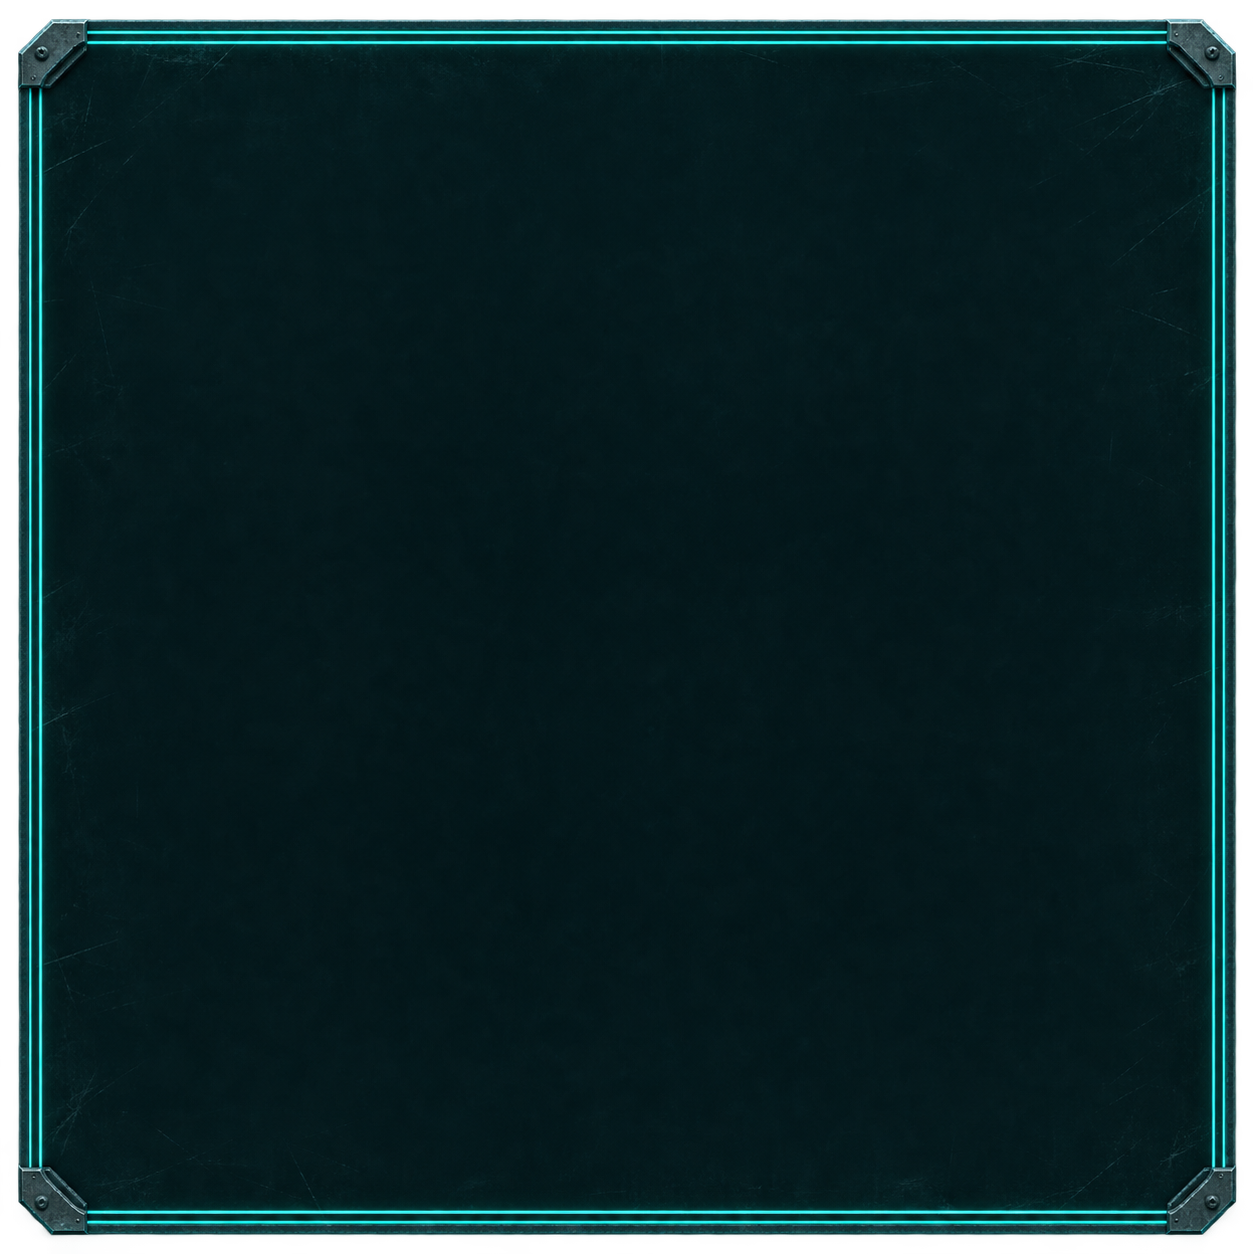
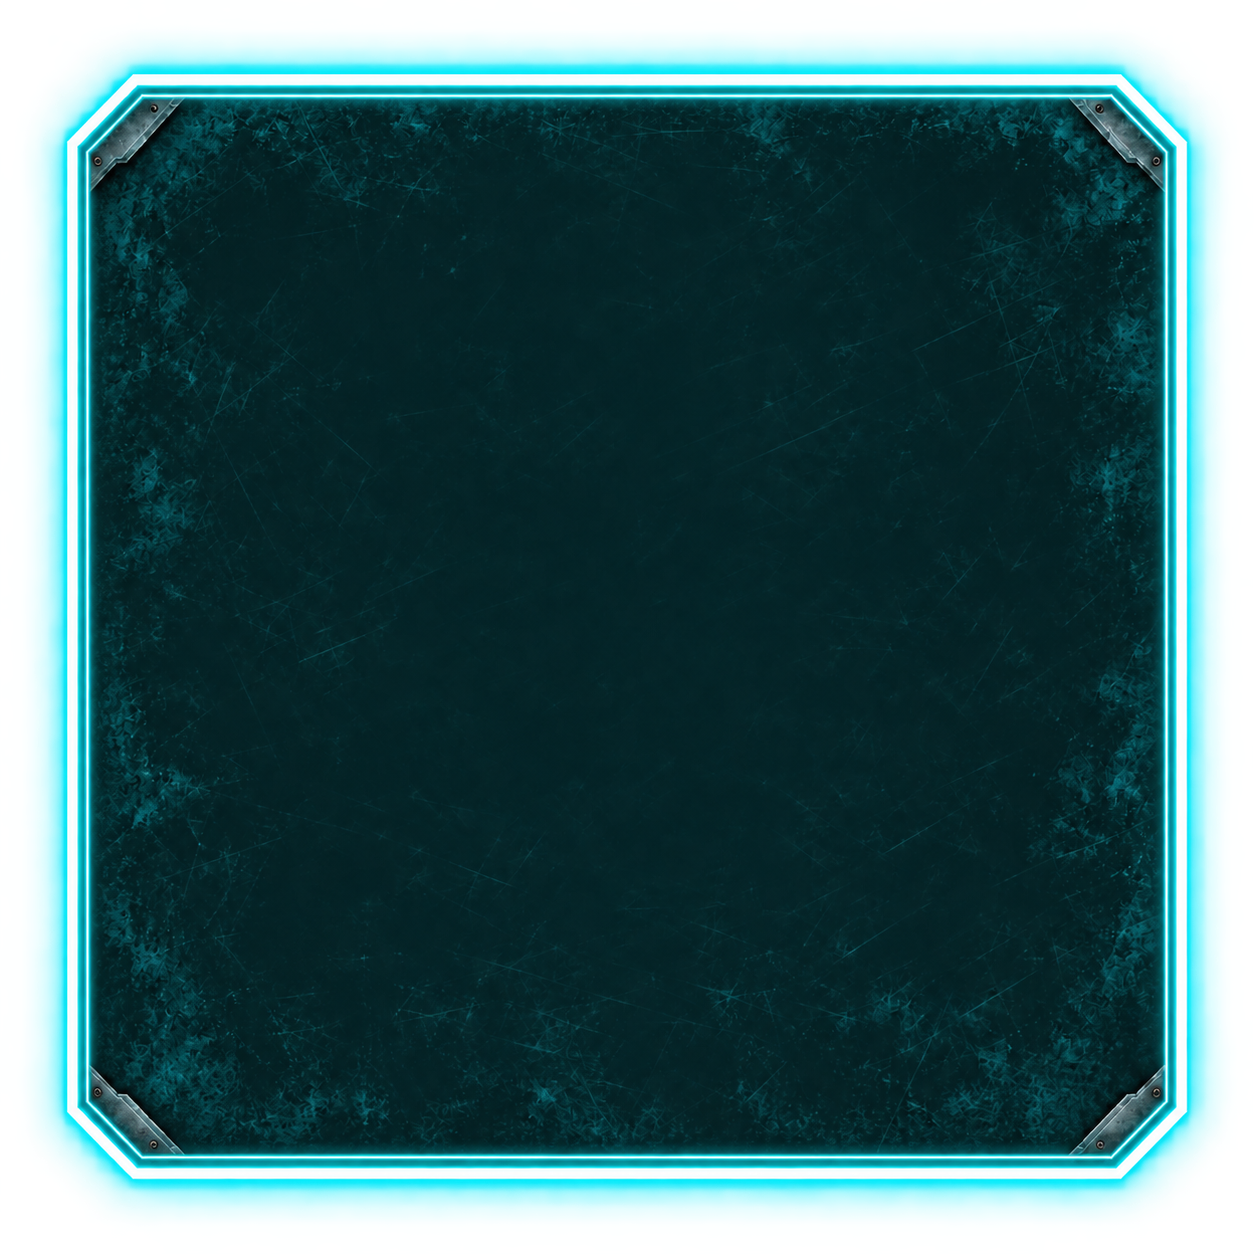
fix: 기존 건설창 프레임을 정사각형으로 적용

diff --git a/sub-terra/Assets/_Project/Editor/DataValidation/PromptB188BuildingModeBuilder.cs b/sub-terra/Assets/_Project/Editor/DataValidation/PromptB188BuildingModeBuilder.cs
@@ -36,8 +36,8 @@ namespace SubTerra.App.Editor.DataValidation
         // B-191: 검색·정렬과 상세 정보를 담는 큰 창 폭.
         public const float CatalogWidth = 560f;
         public const float CatalogMargin = 28f;
-        // 목록 높이가 칸 6개(+간격)에 딱 맞아 아래에 반쯤 잘린 칸이 걸치지 않는다(9칸 기준 550 - 96 - 34 = 420).
-        public const float CatalogBottomMargin = 34f;
+        // 정사각 큰 창에서도 목록 영역은 여섯 행이 온전히 들어가는 높이로 둔다(560 - 96 - 44 = 420).
+        public const float CatalogBottomMargin = 44f;
         public const float CatalogInnerWidth = CatalogWidth - CatalogMargin * 2f;
         // 프레임 바깥 글로우가 레일을 덮지 않게 조금 띄운다.
         public const float CatalogX = SideX + 14f;
@@ -856,7 +856,7 @@ namespace SubTerra.App.Editor.DataValidation
             Sprite buttonOn)
         {
             var refs = new CatalogRefs();
-            var height = RailHeight(entries.Count);
+            var height = CatalogWidth;
             // 창 판은 클릭 막이로 두고 카드와 같은 프레임 그림을 뒤에 둔다.
             var window = EnsureImage(panel, "CatalogWindow", Clear);
             window.sprite = null;
@@ -1101,7 +1101,7 @@ namespace SubTerra.App.Editor.DataValidation
         {
             var importer = AssetImporter.GetAtPath(CardFramePath) as TextureImporter;
             if (importer == null) throw new InvalidOperationException("건설 카드 프레임이 없습니다: " + CardFramePath);
-            var border = new Vector4(96f, 96f, 96f, 96f);
+            var border = new Vector4(192f, 192f, 192f, 192f);
             if (importer.textureType != TextureImporterType.Sprite || importer.spriteImportMode != SpriteImportMode.Single
                 || importer.spriteBorder != border || importer.textureCompression != TextureImporterCompression.Uncompressed)
             {
@@ -1118,7 +1118,17 @@ namespace SubTerra.App.Editor.DataValidation
             Stretch(frame.rectTransform, 0f);
             frame.sprite = AssetDatabase.LoadAssetAtPath<Sprite>(CardFramePath);
             frame.type = UnityEngine.UI.Image.Type.Sliced;
-            frame.pixelsPerUnitMultiplier = frame.sprite.rect.width / width;
+            // 원본 계열 네온 프레임의 밝은 선을 창 경계에 맞추고 바깥 글로우 여백을 확보한다.
+            const float bodyLeft = 74f;
+            const float bodyRight = 1180f;
+            const float bodyTop = 80f;
+            const float bodyBottom = 1174f;
+            var pixelsPerUnit = (bodyRight - bodyLeft) / width;
+            frame.pixelsPerUnitMultiplier = pixelsPerUnit;
+            frame.rectTransform.offsetMin = new Vector2(-bodyLeft,
+                -(frame.sprite.rect.height - bodyBottom)) / pixelsPerUnit;
+            frame.rectTransform.offsetMax = new Vector2(frame.sprite.rect.width - bodyRight,
+                bodyTop) / pixelsPerUnit;
             frame.raycastTarget = false;
             frame.transform.SetSiblingIndex(0);
         }

diff --git a/sub-terra/Assets/_Project/Tests/EditMode/App/UI/PromptB191BuildingModeTests.cs b/sub-terra/Assets/_Project/Tests/EditMode/App/UI/PromptB191BuildingModeTests.cs
@@ -238,12 +238,15 @@ namespace SubTerra.App.Tests.UI
             Assert.That(frame.sprite, Is.SameAs(frameSprite));
             Assert.That(frame.type, Is.EqualTo(Image.Type.Sliced));
             Assert.That(frame.raycastTarget, Is.False);
-            Assert.That(frame.rectTransform.offsetMin.magnitude, Is.LessThan(0.001f));
-            Assert.That(frame.rectTransform.offsetMax.magnitude, Is.LessThan(0.001f));
+            Assert.That(frame.rectTransform.offsetMin.x, Is.LessThan(0f));
+            Assert.That(frame.rectTransform.offsetMin.y, Is.LessThan(0f));
+            Assert.That(frame.rectTransform.offsetMax.x, Is.GreaterThan(0f));
+            Assert.That(frame.rectTransform.offsetMax.y, Is.GreaterThan(0f));
             Assert.That(frame.transform.GetSiblingIndex(), Is.Zero, "목록·상세보다 뒤에 그린다.");
             Assert.That(window.GetComponent<Image>().raycastTarget, Is.True, "창 안 클릭은 월드로 새지 않는다.");
             Assert.That(((RectTransform)window).sizeDelta.x, Is.EqualTo(PromptB112InventoryPanelBuilder.PanelWidth),
                 "검색·정렬과 상세 정보의 기존 창 폭을 유지한다.");
+            Assert.That(((RectTransform)window).sizeDelta.y, Is.EqualTo(((RectTransform)window).sizeDelta.x));
             Assert.That(((RectTransform)window).anchorMin, Is.EqualTo(new Vector2(0f, 1f)), "가운데 팝업이 아니라 레일 옆 왼쪽 위에 붙는다.");
         }
 

diff --git a/sub-terra/Assets/_Project/Tests/EditMode/App/UI/PromptB191FollowupTests.cs b/sub-terra/Assets/_Project/Tests/EditMode/App/UI/PromptB191FollowupTests.cs
@@ -129,8 +129,10 @@ namespace SubTerra.App.Tests.UI
             Assert.That(card.GetComponent<UnityEngine.UI.VerticalLayoutGroup>().padding.left, Is.EqualTo(16));
             Assert.That(Find("SidePane").GetComponent<RectTransform>().sizeDelta.x, Is.EqualTo(300f));
             Assert.That(card.GetComponent<UnityEngine.UI.LayoutElement>().preferredHeight, Is.EqualTo(300f));
-            Assert.That(frame.rectTransform.offsetMin, Is.EqualTo(Vector2.zero));
-            Assert.That(frame.rectTransform.offsetMax, Is.EqualTo(Vector2.zero));
+            Assert.That(frame.rectTransform.offsetMin.x, Is.LessThan(0f));
+            Assert.That(frame.rectTransform.offsetMin.y, Is.LessThan(0f));
+            Assert.That(frame.rectTransform.offsetMax.x, Is.GreaterThan(0f));
+            Assert.That(frame.rectTransform.offsetMax.y, Is.GreaterThan(0f));
             Assert.That(card.GetComponent<UnityEngine.UI.Image>().raycastTarget, Is.True);
         }
 

diff --git a/work_process/MVP2/ui/B-191-3-original-square-frame-result.md b/work_process/MVP2/ui/B-191-3-original-square-frame-result.md
@@ -1,0 +1,42 @@
+# B-191-3 원본 건설창 프레임의 정사각형 편집
+
+2026-11-10.
+
+기존 건설창이 사용하던 `Assets/_Project/Art/UI/Inventory/inventory-window-frame.png`를 imagegen 편집 입력으로 전달해 정사각형으로 다시 만들었다. 원본의 두꺼운 청록·흰색 이중 발광 테두리, 금속 모서리와 짙은 청록색 긁힘 질감을 살렸다. 위쪽 탭과 측면 굴곡을 정리했다.
+
+최종 이미지는 `sub-terra/Assets/_Project/Art/UI/Gameplay/building-card-square.png`에 적용했다. 기존 meta GUID를 유지했다. 큰 목록·상세창은 560×560, 작은 카드는 300×300으로 배치한다. 목록 높이는 420으로 두어 여섯 행이 온전히 보인다. 네온 선이 창 경계에 맞고 글로우가 바깥으로 번지도록 프레임 여백과 9-slice를 조정했다.
+
+## 변경 파일
+
+- `sub-terra/Assets/_Project/Art/UI/Gameplay/building-card-square.png`와 `.meta`
+- `sub-terra/Assets/_Project/Editor/DataValidation/PromptB188BuildingModeBuilder.cs`
+- `sub-terra/Assets/_Project/Prefabs/UI/BuildingMenu.prefab`
+- `sub-terra/Assets/_Project/Tests/EditMode/App/UI/PromptB191BuildingModeTests.cs`
+- `sub-terra/Assets/_Project/Tests/EditMode/App/UI/PromptB191FollowupTests.cs`
+- `init/rules/lessons/2026-11-10-issue304-reference-frame-redraw.md`
+- 이 보고서
+
+## 이미지 생성
+
+내장 `image_gen` 도구를 두 번 사용했다. 첫 편집으로 원본의 외형을 정사각형으로 만들고, 두 번째 편집으로 테두리 배치와 발광 여백을 좁혀 작은 카드의 가독성을 확보했다. 최종 PNG는 1254×1254이며 외곽에 알파 채널이 있다.
+
+## 검증
+
+- 관련 EditMode 57/57 통과. `sub-terra/Builds/BuildingUi/original-style-edit-final/EditMode-summary.txt`.
+- Visual PlayMode 1/1 통과. Bootstrap 기반 격리된 탐사 Scene에서 1920×1080, 1366×768, 2560×1440의 카드·목록·상세·검색·정렬·클릭 영역을 확인했다. `sub-terra/Builds/BuildingUi/original-style-visual/PlayMode-summary.txt`.
+- 카드·목록·상세를 절반 해상도로 묶은 화면을 검토했다. 네온 프레임 안에 이름·설명·비용·상태가 표시되고 큰 목록은 여섯 행이 온전히 보인다. `sub-terra/Builds/BuildingUi/original-style-preview.jpg`.
+- Unity Console 오류 0개. 입력 코드와 Inspector 연결은 기존 경로를 사용하며 프리팹은 Editor 빌더로 저장했다.
+- 미검증 항목은 Windows 플레이어 빌드 실행이다. 수동 확인 시 B → 시설 선택 → 카드, `>>` → 목록 → 행 선택 → 상세에서 프레임과 텍스트를 확인한다.
+
+첫 편집 프롬프트
+
+```text
+Use case: precise-object-edit. Edit target: the provided existing game window frame image. Adapt THIS EXACT frame into a true square version for the construction window and small construction card of the same game. Preserve its distinctive bright thick cyan/white double-line neon outline, strong cyan outer glow, weathered dark teal metal interior, scratched peripheral texture and metallic beveled corner brackets. Preserve the visual identity and brightness of the supplied frame. Geometry change only: make the main panel exactly square with four equal-length straight sides and small identical 45-degree clipped corners. Remove the raised top-center tab and remove both side indentations, continuing the same cyan double-outline straight across them. Uniform square silhouette, centered, equal transparent outer glow margins on all four edges. The central panel is opaque nearly black teal and calm enough for live readable UI text, with subtle wear concentrated near the edges. No text, labels, symbols, buttons, extra objects, logos, or watermark. Straight-on flat 2D game UI sprite. Deliver a square 1024x1024 RGBA texture with actual transparency outside the cyan glow, opaque dark center. Keep the frame inside the outer 8 percent band so a 96-pixel 9-slice border can preserve all corners. This is a faithful square adaptation of the reference, retaining the bold luminous border.
+```
+
+테두리 보정 프롬프트
+
+```text
+Edit this square frame image with one geometric refinement while preserving its exact original bright white/cyan double-line neon style, dark scratched teal center, corner brackets and square shape. Move the luminous frame outline outward so the main WHITE outline lies only 4 percent of the image width in from ALL four image edges (approximately 40px on a 1024 square). The corner bevel and metal brackets must fit entirely within the outer 9 percent of the square. The glowing band should be compact, smooth and evenly feathered to actual transparency outside, without paint splashes or ragged cyan blobs. Keep a small even transparent safety margin so the glow is not clipped at the canvas edge. Opaque dark interior. No top tab, no side notches, equal straight sides, small identical clipped corners. Preserve the original vivid cyan brightness and weathered metallic texture. This is for a small readable game card: at least central 88 percent must be dark quiet interior free of bright border. No text, icons, labels, buttons or extra elements. Square RGBA asset.
+```
+

diff --git a/init/rules/lessons/2026-11-10-issue304-reference-frame-redraw.md b/init/rules/lessons/2026-11-10-issue304-reference-frame-redraw.md
@@ -1,0 +1,7 @@
+# 기존 이미지의 형태 변경은 원본을 직접 편집한다
+- 날짜: 2026-11-10
+- 태그: issue304, building, UI, imagegen, reference
+- 실수: 기존 건설창 분위기의 정사각 프레임을 요청받고 새 디자인을 생성해 원본의 두꺼운 청록 발광 테두리가 약해졌다.
+- 원인: 원본 이미지 파일을 편집 입력으로 전달하지 않고 설명만으로 새 이미지를 생성했다.
+- 다음부터 할 일: 원본 이미지를 보고 imagegen 참조 경로로 전달한다. 형태 변경 시 유지할 재질·발광·테두리를 명시하고, 9-slice 모서리와 글로우 여백을 실제 UI에 맞춰 확인한다.
+- 관련: inventory-window-frame.png, building-card-square.png, PromptB188BuildingModeBuilder.BuildWindowFrame.
